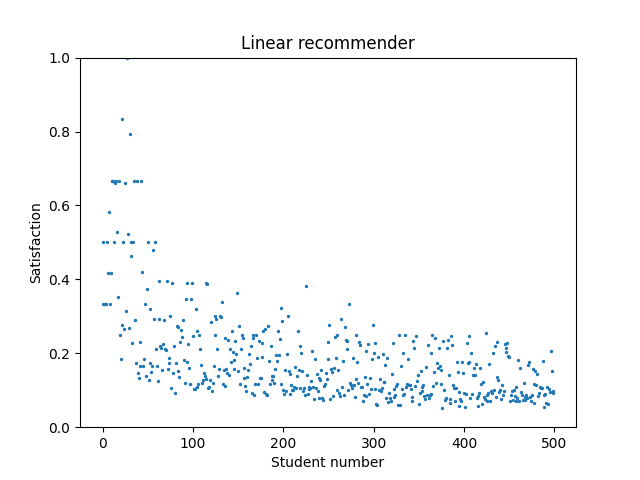
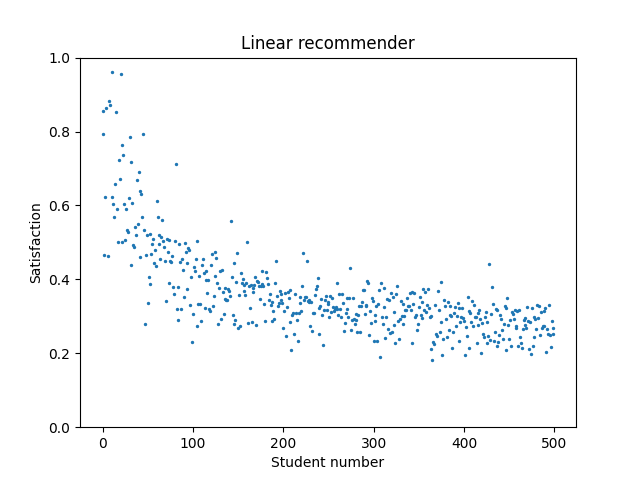
Adapted recommendation engine with grades@

diff --git a/api/recommender/recommender_engine.py b/api/recommender/recommender_engine.py
@@ -1,6 +1,8 @@
 import random
 from typing import List, Tuple
+from api.grades.models import Grade
 from api.projects.models import Project
+from api.recommender.utils import calculate_grade_relevance, calculate_interest_match_factor
 from api.users.models import User
 
 
@@ -15,6 +17,7 @@ class BaseRecommender:
     def __init__(self, user: User) -> None:
         self.user = user
         self.user_interests = user.interests.all()
+        self.grades = Grade.objects.filter(student=self.user)
 
     def get_project_recommendations(self):
         raise NotImplementedError()
@@ -22,13 +25,11 @@ class BaseRecommender:
     def get_supervisor_recommendations(self):
         raise NotImplementedError()
 
-    def _calculate_interest_match_factor(self, object: Tuple[Project, User]) -> int:
-        """
-        Get score of how well a project matches an interest.
-        :param project: Project/User instance.
-        :return: int.
-        """
-        return len(list(set(object.interests.all()).intersection(self.user_interests)))
+    def _calculate_grade_relevance(self, object: Tuple[Project, User]) -> float:
+        total = 0
+        for grade in self.grades:
+            total += len(list(set(object.interests.all()).intersection(grade.module.interests.all()))) * grade.score
+        return total
 
     def _order_linearly(self, queryset: List, weights: List[float]) -> List:
         """
@@ -73,7 +74,7 @@ class LinearRecommender(BaseRecommender):
         instances = instances.filter(interests__in=list(self.user_interests)).distinct()
         relevance = []
         for instance in instances:
-            relevance.append(self._calculate_interest_match_factor(instance))
+            relevance.append(calculate_interest_match_factor(self.user_interests, instance) + calculate_grade_relevance(self.grades, instance))
         return self._order_linearly(instances, relevance)[:3]
 
     def get_supervisor_recommendations(self):
@@ -84,7 +85,7 @@ class LinearRecommender(BaseRecommender):
 
 
 class DistributedRecommender(BaseRecommender):
-    name = "Liner distributed recommender"
+    name = "Linear distributed recommender"
 
     def __get_recommendations(self, model: Tuple[Project, User]) -> List:
         """
@@ -99,7 +100,7 @@ class DistributedRecommender(BaseRecommender):
         instances = instances.filter(interests__in=list(self.user_interests)).distinct()
         relevance = []
         for instance in instances:
-            relevance.append(self._calculate_interest_match_factor(instance))
+            relevance.append(calculate_interest_match_factor(self.user_interests, instance) + calculate_grade_relevance(self.grades, instance))
         return self._weighted_shuffle(instances, relevance)[:3]
 
     def get_supervisor_recommendations(self):

diff --git a/api/recommender/satisfaction_calculator.py b/api/recommender/satisfaction_calculator.py
@@ -1,9 +1,10 @@
 from typing import List
+from api.grades.models import Grade
 from api.projects.models import Project
-from api.recommender.utils import calculate_interest_match_factor
+from api.recommender.utils import calculate_grade_relevance, calculate_interest_match_factor
 from api.users.models import User
 
-RECOMMENDED_BEFORE_BIAS = 3
+RECOMMENDED_BEFORE_BIAS = 4
 
 
 def calculate_recommendation_satisfaction(
@@ -25,21 +26,23 @@ def calculate_recommendation_satisfaction(
     """
     user_interests = user.interests.all()
     interests_count = user_interests.count()
+    grades = Grade.objects.filter(student=user)
+    grade_count = grades.count()
 
     # Get matches and recommended before count.
     matches = []
     recommended_before = 0
     for project in projects:
         matches.append(
-            calculate_interest_match_factor(user_interests, project) / interests_count
+            (calculate_interest_match_factor(user_interests, project) + calculate_grade_relevance(grades, project)) / (interests_count + grade_count)
         )
         recommended_before += project.recommended_count
         project.recommended_count += 1
         project.save()
     for supervisor in supervisors:
         matches.append(
-            calculate_interest_match_factor(user_interests, supervisor)
-            / interests_count
+            (calculate_interest_match_factor(user_interests, supervisor) + calculate_grade_relevance(grades, supervisor))
+            / (interests_count + grade_count)
         )
         recommended_before += supervisor.recommended_count
         supervisor.recommended_count += 1

diff --git a/api/tests/test_recommender.py b/api/tests/test_recommender.py
@@ -40,15 +40,15 @@ class RecommenderTests(APITestCase):
             in [[project_3, project_2, project_1], [project_3, project_1, project_2]]
         )
 
-    # def test_simulation(self):
-    #     Generator(500)
-    #     students = User.objects.filter(is_supervisor=False)
-    #     satisfaction = []
-    #     for user in students:
-    #         recommender = DistributedRecommender(user)
-    #         projects = recommender.get_project_recommendations()
-    #         supervisors = recommender.get_supervisor_recommendations()
-    #         satisfaction.append(
-    #             calculate_recommendation_satisfaction(user, projects, supervisors)
-    #         )
-    #     plot_values(satisfaction, recommender.name)
+    def test_simulation(self):
+        Generator(500)
+        students = User.objects.filter(is_supervisor=False)
+        satisfaction = []
+        for user in students:
+            recommender = LinearRecommender(user)
+            projects = recommender.get_project_recommendations()
+            supervisors = recommender.get_supervisor_recommendations()
+            satisfaction.append(
+                calculate_recommendation_satisfaction(user, projects, supervisors)
+            )
+        plot_values(satisfaction, recommender.name)

diff --git a/api/recommender/utils.py b/api/recommender/utils.py
@@ -1,4 +1,5 @@
 from typing import List, Tuple
+from api.grades.models import Grade
 from api.interests.models import Interest
 
 from api.projects.models import Project
@@ -14,3 +15,16 @@ def calculate_interest_match_factor(
     :return: int.
     """
     return len(list(set(object.interests.all()).intersection(user_interests)))
+
+
+def calculate_grade_relevance(grades: List[Grade], object: Tuple[Project, User]) -> float:
+    """
+    Calculate how relevant a grade is to a project/supervisor.
+    :param grades: List of user grades.
+    :param object: Project/User instance.
+    :return: float.
+    """
+    total = 0
+    for grade in grades:
+        total += 1 + len(list(set(object.interests.all()).intersection(grade.module.interests.all()))) * grade.score / 100
+    return total

diff --git a/api/recommender/generator.py b/api/recommender/generator.py
@@ -27,7 +27,7 @@ class Generator:
         students_num: int = 1000,
         supervisors_num: int = 50,
         modules_num: int = 30,
-        grades_per_student=10,
+        grades_per_student: int = 10,
         projects_per_supervisor: int = 5,
         interests_num: int = 100,
         max_assigned_interests: int = 3,
